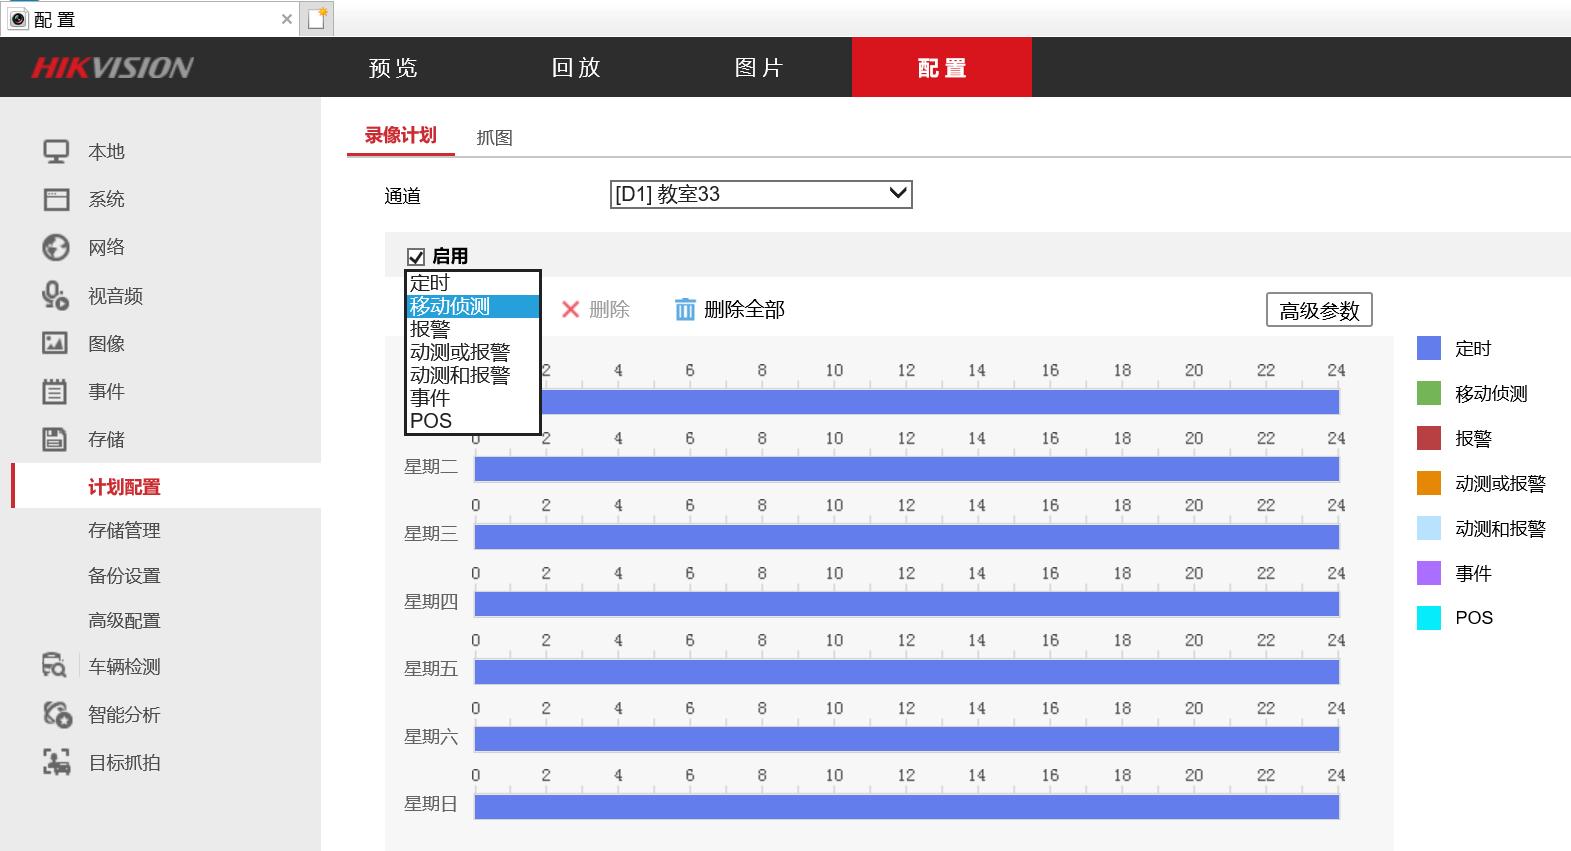
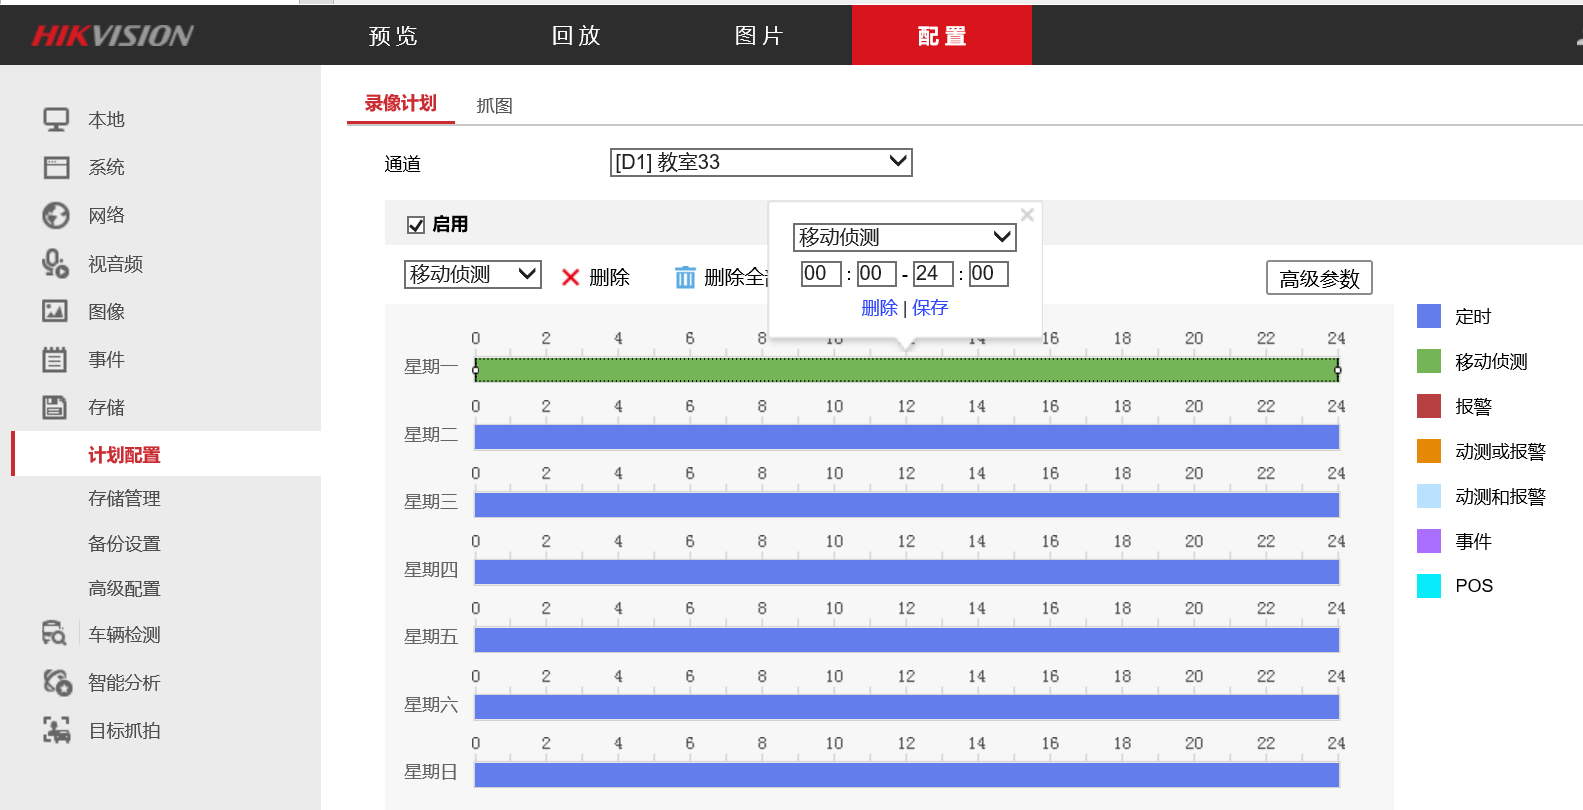
删除第一步，"启用"下的"移动侦测"是用来选择删除用的

Changed region(s): [[0.0, 0.0, 1.0, 0.9877], [0.0312, 0.8333, 0.0936, 0.9259], [0.0312, 0.7716, 0.1248, 0.8025]]

diff --git a/hardware/hikvision-recorder-motion-detection-setup/hikvision-recorder-motion-detection-setup.md b/hardware/hikvision-recorder-motion-detection-setup/hikvision-recorder-motion-detection-setup.md
@@ -2,20 +2,17 @@
 
 ## 解决方法
 * 录像机管理页面->"配置"->"存储"->"计划配置"
-* 在"启用"下选择"移动侦测"
-
-  ![](images/01.png)
 
 * 点击"星期一"的长条，在弹出的窗口中选择"移动侦测"，时间选择00:00 - 24:00，保存
 
-  ![](images/02.png)
+  ![](images/01.png)
 
 * 点击"星期一"的长条右侧的复制文件的小图标，选择"全选"复制到周一至周日
 
-  ![](images/03.png)
+  ![](images/02.png)
 
 * 点击页面底部的"复制到..."按钮，复制到所有需要的通道，开启"移动侦测"录像
 
-  ![](images/04.png)
+  ![](images/03.png)
 
 * 点击"保存"
